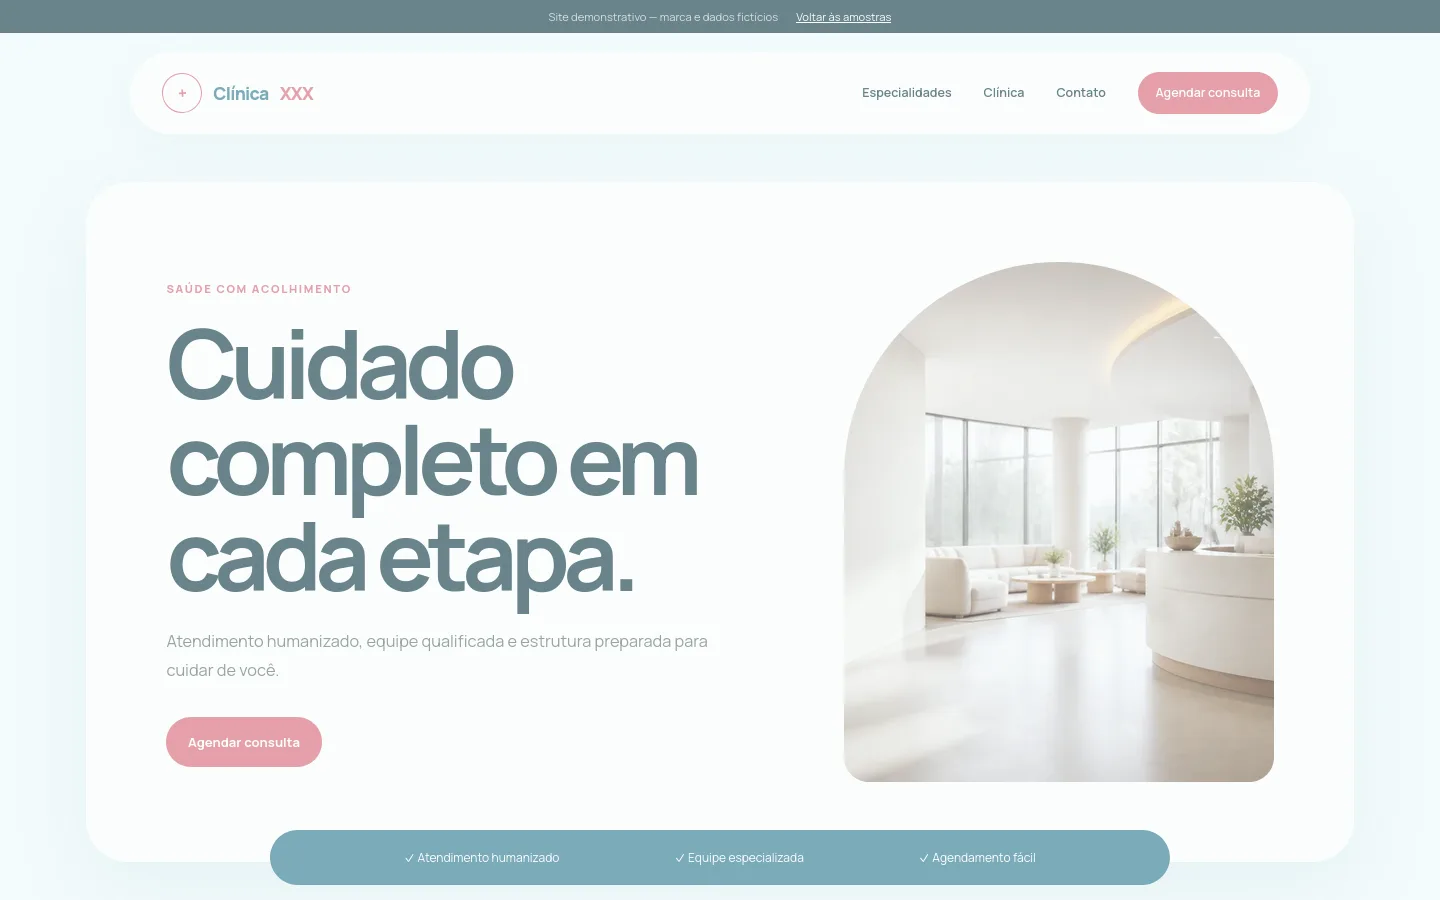
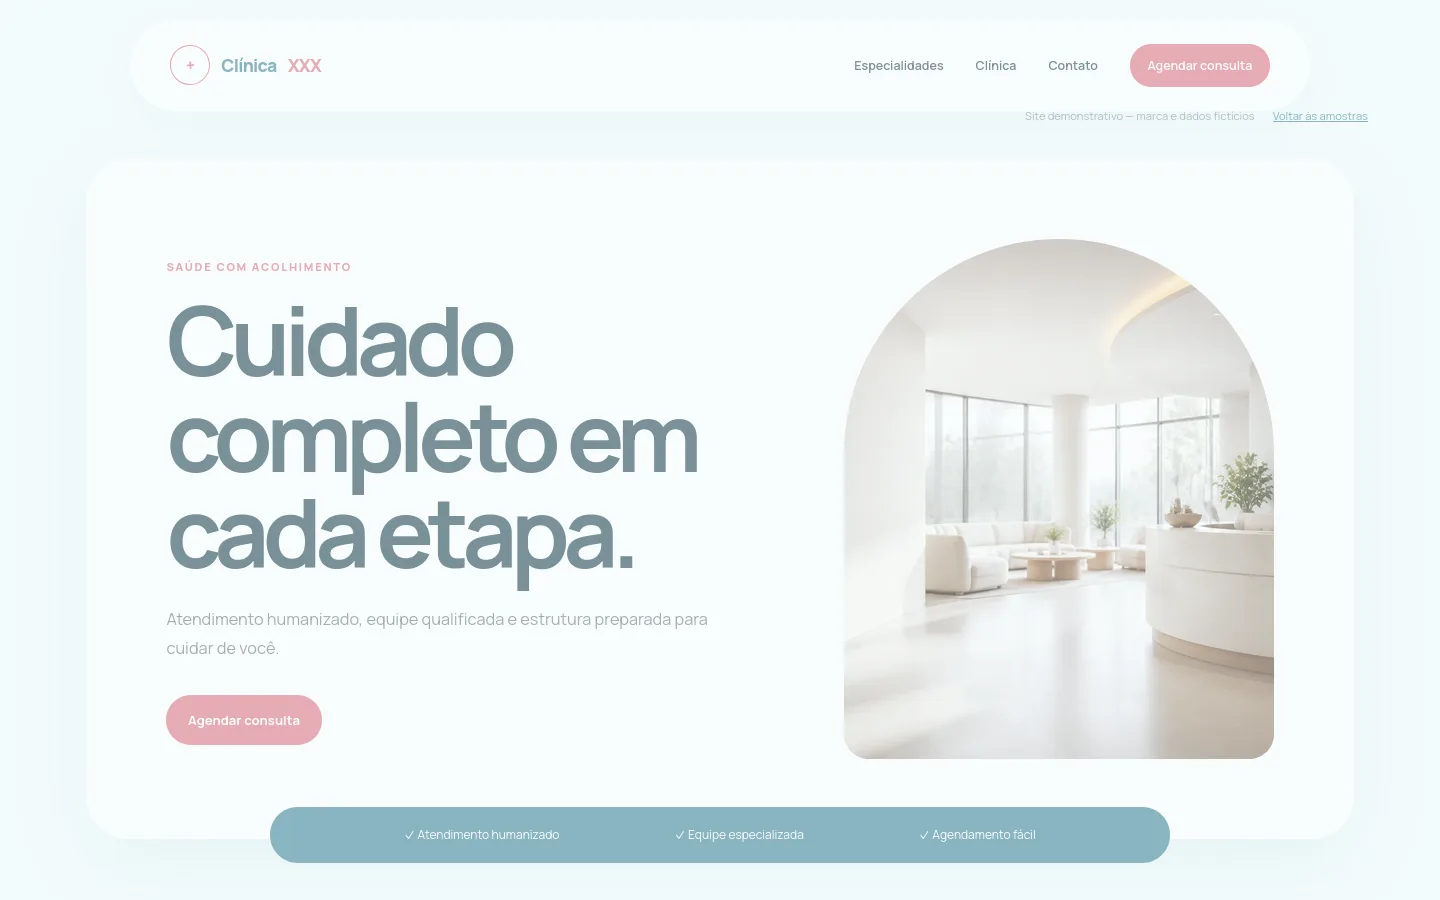
fix: make each demo header unique

diff --git a/src/css/demo-negocio.css b/src/css/demo-negocio.css
@@ -44,7 +44,13 @@ body.tema-academia .botao { color: #101827; }
 body.tema-imobiliaria { --cor: #1d4d6b; --acao: #d49b58; --claro: #f4f7f8; --tinta: #102d40; }
 
 /* Mercado: campanha varejista, foto panorâmica e ofertas em cartões coloridos */
-.tema-mercado header { height: 104px; margin: 0 4vw; padding: 0; border-bottom: 2px solid #176b43; }
+.tema-mercado .aviso { padding: .7rem 4vw; text-align: left; color: #123b2a; background: #f1a62c; font-weight: 800; }
+.tema-mercado .aviso::before { content: 'OFERTAS DA SEMANA  •  ENTREGA NO BAIRRO'; }
+.tema-mercado .aviso { font-size: 0; }.tema-mercado .aviso::before,.tema-mercado .aviso a { font-size: .7rem; }
+.tema-mercado .aviso a { float: right; color: #123b2a; }
+.tema-mercado header { height: 112px; margin: 0 4vw; padding: 0; display: grid; grid-template-columns: 1fr auto 1fr; border-bottom: 2px solid #176b43; }
+.tema-mercado header .logo { grid-column: 2; }
+.tema-mercado header nav { grid-column: 3; justify-self: end; }
 .tema-mercado .logo { font-size: 1.4rem; }
 .tema-mercado nav .nav-acao { border-radius: 10px; background: #f1a62c; color: #123b2a; }
 .tema-mercado .hero { min-height: 680px; grid-template-columns: .75fr 1.25fr; padding-right: 0; background: #fff8e8; }
@@ -58,7 +64,9 @@ body.tema-imobiliaria { --cor: #1d4d6b; --acao: #d49b58; --claro: #f4f7f8; --tin
 .tema-mercado .destaque { grid-template-columns: 1fr 1.4fr; background: #fff8e8; }
 
 /* Clínica: editorial leve, hero em cartão suspenso e especialidades circulares */
-.tema-clinica header { width: min(1180px,92%); margin: 1.2rem auto 0; padding: 0 2rem; border-radius: 999px; background: white; box-shadow: 0 12px 35px rgba(54,125,145,.08); }
+.tema-clinica .aviso { position: absolute; right: 5vw; top: 108px; z-index: 4; padding: 0; color: #78939a; background: transparent; text-align: right; }
+.tema-clinica .aviso a { color: #367d91; }
+.tema-clinica header { width: min(1180px,92%); height: 92px; margin: 1.2rem auto 0; padding: 0 2.5rem; border-radius: 999px; background: white; box-shadow: 0 12px 35px rgba(54,125,145,.08); }
 .tema-clinica .logo[data-mark]::before { border-radius: 50%; }
 .tema-clinica nav .nav-acao { background: #dd6c7b; }
 .tema-clinica .hero { margin: 3rem 6vw 6rem; min-height: 580px; padding: 5rem; border-radius: 42px; background: white; box-shadow: 0 25px 80px rgba(54,125,145,.12); }
@@ -69,6 +77,8 @@ body.tema-imobiliaria { --cor: #1d4d6b; --acao: #d49b58; --claro: #f4f7f8; --tin
 .tema-clinica .destaque { background: #dff4f7; }
 
 /* Restaurante: capa escura cinematográfica e cardápio como menu impresso */
+.tema-restaurante .aviso { position: absolute; z-index: 5; left: 50%; top: 14px; transform: translateX(-50%); padding: 0; color: #d9b98e; background: transparent; letter-spacing: .18em; white-space: nowrap; }
+.tema-restaurante .aviso a { color: white; }
 .tema-restaurante header { position: absolute; top: 31px; left: 5vw; right: 5vw; z-index: 4; width: auto; height: 105px; padding: 0; color: white; background: transparent; border-bottom: 1px solid rgba(255,255,255,.3); }
 .tema-restaurante .logo[data-mark]::before { border-radius: 50%; font-family: Georgia,serif; }
 .tema-restaurante nav { text-transform: uppercase; letter-spacing: .12em; }
@@ -87,6 +97,9 @@ body.tema-imobiliaria { --cor: #1d4d6b; --acao: #d49b58; --claro: #f4f7f8; --tin
 
 /* Academia: brutalista escuro, tipografia inclinada e blocos sem arredondamento */
 .tema-academia { background: #0b1019; color: white; }
+.tema-academia .aviso { padding: .45rem 0; overflow: hidden; color: #0b1019; background: #e9ff4f; text-align: left; font-weight: 900; white-space: nowrap; }
+.tema-academia .aviso::before { content: 'SEM DESCULPAS  ///  TREINE FORTE  ///  EVOLUA TODO DIA  ///  '; margin-right: 2rem; }
+.tema-academia .aviso a { color: #0b1019; }
 .tema-academia header { height: 108px; color: white; background: #0b1019; border-bottom: 5px solid #e9ff4f; }
 .tema-academia .logo[data-mark]::before { border-radius: 0; transform: skew(-8deg); }
 .tema-academia nav { text-transform: uppercase; font-style: italic; }
@@ -104,7 +117,8 @@ body.tema-imobiliaria { --cor: #1d4d6b; --acao: #d49b58; --claro: #f4f7f8; --tin
 .tema-academia .grade p { color: #aab3c2; }
 
 /* Imobiliária: revista arquitetônica com foto dominante e conteúdo sobreposto */
-.tema-imobiliaria header { position: absolute; top: 31px; left: 0; z-index: 4; width: 270px; height: 729px; padding: 3rem 2rem; align-items: flex-start; flex-direction: column; color: white; background: rgba(16,45,64,.94); }
+.tema-imobiliaria .aviso { position: absolute; z-index: 6; right: 2rem; top: 1.4rem; padding: 0; color: white; background: transparent; text-align: right; }
+.tema-imobiliaria header { position: absolute; top: 0; left: 0; z-index: 4; width: 270px; height: 760px; padding: 3rem 2rem; align-items: flex-start; flex-direction: column; color: white; background: rgba(16,45,64,.94); }
 .tema-imobiliaria .logo { color: white; }
 .tema-imobiliaria .logo[data-mark]::before { border-radius: 0; }
 .tema-imobiliaria nav { width: 100%; align-items: flex-start; flex-direction: column; border-top: 1px solid rgba(255,255,255,.2); padding-top: 2rem; }
@@ -127,10 +141,10 @@ body.tema-imobiliaria { --cor: #1d4d6b; --acao: #d49b58; --claro: #f4f7f8; --tin
   .conteudo, .destaque { padding: 5rem 1.5rem; }.grade, .destaque { grid-template-columns: 1fr; }
   .destaque__arte { max-width: 460px; width: 100%; }.cta { padding: 4rem 1.5rem; align-items: flex-start; flex-direction: column; }
   footer { gap: 1rem; flex-direction: column; }
-  .tema-mercado header { height: 72px; margin: 0; padding: 0 1.25rem; border-bottom-width: 1px; }.tema-mercado .hero { padding-right: 1.5rem; }.tema-mercado .hero > div:first-child { grid-column: 1; grid-row: 1; padding: 0; }.tema-mercado .hero__foto { grid-column: 1; grid-row: 2; height: 320px; border-radius: 35px; }
-  .tema-clinica header { width: 100%; margin: 0; padding: 0 1.25rem; border-radius: 0; }.tema-clinica .hero { margin: 1rem; padding: 3rem 1.25rem; border-radius: 25px; }.tema-clinica .hero__foto { border-radius: 180px 180px 20px 20px; }.tema-clinica .faixa { margin: 1rem 0; width: 100%; border-radius: 0; }
-  .tema-restaurante header { top: 33px; left: 1.25rem; right: 1.25rem; height: 72px; }.tema-restaurante .hero { padding-top: 8rem; }.tema-restaurante .hero__foto { position: absolute; height: 100%; }.tema-restaurante .hero > div:first-child { z-index: 2; }
+  .tema-mercado .aviso { text-align: center; }.tema-mercado .aviso::before { content: 'OFERTAS DA SEMANA'; }.tema-mercado .aviso a { float: none; margin-left: 1rem; }.tema-mercado header { height: 72px; margin: 0; padding: 0 1.25rem; display: flex; border-bottom-width: 1px; }.tema-mercado header .logo,.tema-mercado header nav { grid-column: auto; }.tema-mercado .hero { padding-right: 1.5rem; }.tema-mercado .hero > div:first-child { grid-column: 1; grid-row: 1; padding: 0; }.tema-mercado .hero__foto { grid-column: 1; grid-row: 2; height: 320px; border-radius: 35px; }
+  .tema-clinica .aviso { position: static; padding: .45rem 1rem; background: #dff4f7; text-align: center; }.tema-clinica header { width: calc(100% - 1rem); height: 72px; margin: .5rem; padding: 0 1rem; border-radius: 999px; }.tema-clinica .hero { margin: 1rem; padding: 3rem 1.25rem; border-radius: 25px; }.tema-clinica .hero__foto { border-radius: 180px 180px 20px 20px; }.tema-clinica .faixa { margin: 1rem 0; width: 100%; border-radius: 0; }
+  .tema-restaurante .aviso { top: 8px; width: 100%; text-align: center; }.tema-restaurante header { top: 33px; left: 1.25rem; right: 1.25rem; height: 72px; }.tema-restaurante .hero { padding-top: 8rem; }.tema-restaurante .hero__foto { position: absolute; height: 100%; }.tema-restaurante .hero > div:first-child { z-index: 2; }
   .tema-academia header { height: 72px; border-bottom-width: 3px; }
   .tema-academia .hero__foto { height: 330px; clip-path: polygon(8% 0,100% 0,92% 100%,0 100%); }.tema-academia .hero h1 { font-size: 2.7rem; }
-  .tema-imobiliaria header { position: relative; top: auto; width: 100%; height: 72px; padding: 0 1.25rem; align-items: center; flex-direction: row; }.tema-imobiliaria nav { position: absolute; top: 72px; width: auto; align-items: center; border: 0; padding: 2rem; }.tema-imobiliaria .hero { min-height: 740px; }.tema-imobiliaria .hero > div:first-child { margin: auto 1rem 2rem; padding: 2rem; }.tema-imobiliaria .hero__foto { position: absolute; height: 100%; }.tema-imobiliaria .grade { grid-template-columns: 1fr; }
+  .tema-imobiliaria .aviso { position: static; padding: .45rem 1rem; color: #d7e5eb; background: #102d40; text-align: center; }.tema-imobiliaria header { position: relative; top: auto; width: 100%; height: 72px; padding: 0 1.25rem; align-items: center; flex-direction: row; }.tema-imobiliaria nav { position: absolute; top: 72px; width: auto; align-items: center; border: 0; padding: 2rem; }.tema-imobiliaria .hero { min-height: 740px; }.tema-imobiliaria .hero > div:first-child { margin: auto 1rem 2rem; padding: 2rem; }.tema-imobiliaria .hero__foto { position: absolute; height: 100%; }.tema-imobiliaria .grade { grid-template-columns: 1fr; }
 }

diff --git a/src/css/demo-petshop.css b/src/css/demo-petshop.css
@@ -3,9 +3,9 @@
 html { scroll-behavior: smooth; }
 body { color: var(--texto); background: var(--creme); font-family: Manrope, sans-serif; }
 a { color: inherit; text-decoration: none; }
-.aviso { padding: .55rem 5vw; color: #d0e8e1; background: #11352d; text-align: center; font-size: .7rem; }
+.aviso { position: absolute; z-index: 4; right: 4vw; top: 32px; padding: 0; color: #5f7972; background: transparent; text-align: right; font-size: .7rem; }
 .aviso a { color: #ffb7a4; margin-left: 1rem; }
-header { height: 86px; padding: 0 6vw; display: flex; align-items: center; justify-content: space-between; }
+header { width: min(1180px,92%); height: 92px; margin: 1rem auto; padding: 0 2rem; display: flex; align-items: center; justify-content: space-between; border: 2px solid var(--verde); border-radius: 24px 60px 24px 60px; background: #fffaf2; }
 .logo { display: inline-flex; align-items: center; gap: .7rem; color: var(--verde); font-size: 1.1rem; font-weight: 800; letter-spacing: -.04em; }
 .logo[data-mark]::before { content: attr(data-mark); width: 38px; height: 38px; display: grid; place-items: center; border: 1px solid var(--laranja); border-radius: 50% 50% 45% 45%; color: var(--laranja); font-size: 1rem; transform: rotate(5deg); }
 .logo span { color: var(--laranja); }
@@ -48,9 +48,10 @@ blockquote { max-width: 850px; margin: 1.5rem auto; color: var(--verde); font-si
 .cta p { color: #b7d0c9; }.cta .botao { flex-shrink: 0; margin: 0; }
 footer { padding: 2rem 6vw; display: flex; justify-content: space-between; align-items: center; color: #81918d; font-size: .7rem; }
 @media (max-width: 800px) {
-  header { height: 74px; padding: 0 1.25rem; }
+  .aviso { position: static; padding: .45rem 1rem; background: var(--verde); color: white; text-align: center; }
+  header { width: calc(100% - 1rem); height: 74px; margin: .5rem; padding: 0 1rem; border-radius: 16px 36px 16px 36px; }
   .menu { display: block; }
-  nav { display: none; position: absolute; z-index: 3; top: 107px; left: 0; right: 0; padding: 2rem; flex-direction: column; background: var(--creme); }
+  nav { display: none; position: absolute; z-index: 3; top: 121px; left: .5rem; right: .5rem; padding: 2rem; flex-direction: column; background: var(--creme); border: 2px solid var(--verde); border-radius: 22px; }
   nav.aberto { display: flex; }
   .hero { min-height: auto; padding: 5rem 1.5rem; grid-template-columns: 1fr; }
   .hero__texto { grid-column: 1; grid-row: 1; }
